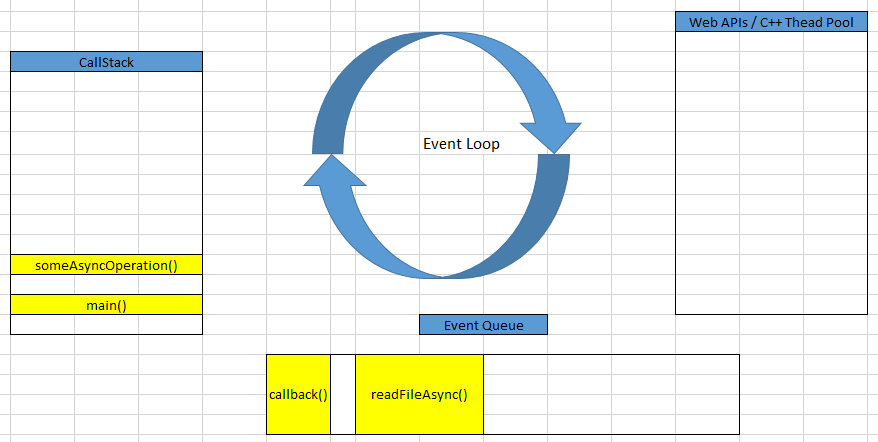
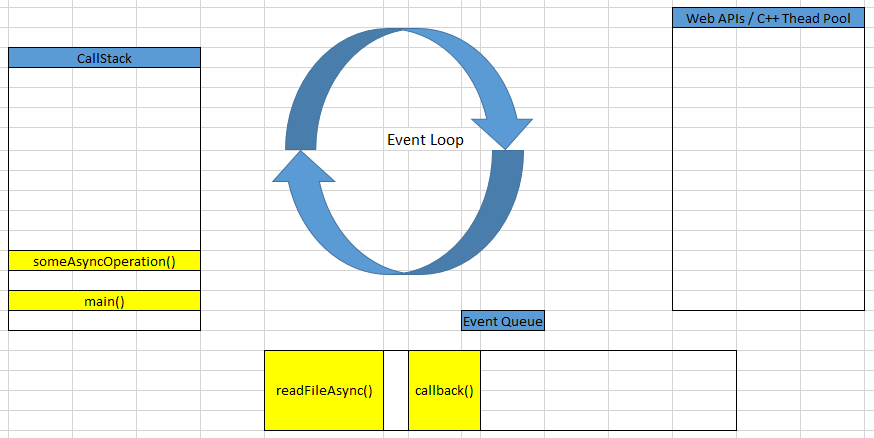
update files

Changed region(s): [[0.0, 0.0, 1.0, 1.0]]

diff --git a/_posts/2020-01-12-Understanding-about-event-loop-in-Node.js.md b/_posts/2020-01-12-Understanding-about-event-loop-in-Node.js.md
@@ -5,8 +5,9 @@ bigimg: /img/image-header/yourself.jpeg
 tags: [Node.js, Reactive Programming, Javascript]
 ---
 
+In this article, we will learn about Event Loop in Node.js, how it works and some components that are relevant to it. Based on the knowledge of Event Loop in Node.js, we will also understand the architecture of Vert.x toolkit.
 
-
+Let's get started.
 
 <br>
 
@@ -14,6 +15,8 @@ tags: [Node.js, Reactive Programming, Javascript]
 - [Given problem](#given-problem)
 - [Solution of Event Loop](#solution-of-event-loop)
 - [How Event Loop works in Node.js](#how-event-loop-works-in-node.js)
+- [Some other concepts in Event Loop](#some-other-concepts-in-event-loop)
+- [When to use](#when-to-use)
 - [Benefits and Drawbacks](#benefits-and-drawbacks)
 - [Applications and Examples](#applications-and-examples)
 - [Wrapping up](#wrapping-up)
@@ -23,11 +26,8 @@ tags: [Node.js, Reactive Programming, Javascript]
 
 ## Given problem
 
+Normally, in our web server, with each request we will create one threads to handle its action, especially in Spring MVC, ... But this way has some drawbacks that we need to know:
 
-
-
-
-The drawbacks of synchronous programming:
 - Creating multiple threads to handle requests at the same time makes our computer have multi-cores, RAMs, but verticle scaling has limit point. And the context-switching between requests consumes time and cost.
 
     Each threads can consumes 2 - 3 MB RAM.
@@ -58,7 +58,7 @@ const fs = require('fs');
 
 function someAsyncOperation(callback) {
   const startCallback = Date.now();
-  // assuming that reading file takes 98ms
+  // assuming that reading file takes 95ms
   fs.readFile('/path/to/file', callback);
 }
 
@@ -80,14 +80,13 @@ function main() {
 }
 
 main();
-
 ```
 
 Belows are some steps that is implemented in Node.js.
 
 1. **main()** function will be called. It will be loaded in **CallStack**.
 
-    After the **now()** method of Date class is called, main() method will be called.
+    After the **now()** method of Date class is called, **main()** method will be called.
 
     ![](../img/asynchronous-programming/event-loop/main-method-call-stack.png)
 
@@ -107,11 +106,55 @@ Belows are some steps that is implemented in Node.js.
 
     ![](../img/asynchronous-programming/event-loop/read-file-async.png)
     
-    But how does Node.js handle the reading file to finish? And how data from the asynchronous function **fs.readFile()** will be passed into callback function?
+    But we have some questions in this case.
+    - How does Node.js handle the reading file to finish?
+
+        We attach listeners to events, so whenever an event is fired the callback attached to the event is executed.
+    
+    - How data from the asynchronous function **fs.readFile()** will be passed into callback function?
     
     After that, **someAsyncOperation()** method will be pop off the CallStack.
 
-    If the call stack is empty, so if all previously invoked functions have returned their values and have been popped off the stack, the first item in the queue gets added to the call stack.
+    Due to the time of finishing the reading file takes 95 ms, and the timeout takes 100ms, so the **readFileAsync()** method will be pushed into Event Queue before the callback of **setTimeout()** method.
+    
+
+4. After **someAsyncOperation()** method, and **main()** method are got out of Call Stack, the Call Stack is empty.
+
+    ![](../img/asynchronous-programming/event-loop/empty-call-stack.png)
+
+    The Event Loop is a constantly running thread that checks if the call stack is empty then, proceeds to execute all the callbacks enqueued in the Event queue.
+
+    ```java
+    while (eventLoop.waitForTask()) {
+        eventLoop.processNextTask()
+    }
+    ```
+
+    Based on it, we can find that **readFileAsync()** callback method will be push into Call Stack. This callback will wait for 10 ms before finishing.
+    
+    ![](../img/asynchronous-programming/event-loop/push-read-file-async-into-call-stack.png)
+    
+    Then, the callback of **setTimeout()** method will be pushed into Call Stack to continuously proceed.
+
+    ![](../img/asynchronous-programming/event-loop/callback-settimeout-in-call-stack.png)
+
+    Finally, the callback of **setTimeout()** method will be poped out of call stack.
+
+<br>
+
+## Some other concepts in Event Loop
+
+- Job Queue
+
+    Job Queue was introduced in ES6. It's a layer on top of the Event Loop queue.
+
+- Microtask and Macrotask
+
+    We can refer an article about [Microtask and Macrotask: A Hands-on Approach](https://blog.bitsrc.io/microtask-and-macrotask-a-hands-on-approach-5d77050e2168).
+
+- Some phases of Event Loop
+
+    We can refer an article about [Phases of the Node JS Event Loop](https://medium.com/@kunaltandon.kt/process-nexttick-vs-setimmediate-vs-settimeout-explained-wrt-different-event-loop-phases-c0506b12921d).
 
 <br>
 
@@ -143,22 +186,16 @@ Belows are some steps that is implemented in Node.js.
 
 ## Applications and Examples
 
-
-
-
-<br>
-
-## Some questions related to Event Loop
-
-
+- Using event loop is applied in Vert.x, Spring Webflux.
 
 
 <br>
 
 ## Wrapping up
 
+- The Event Loop has one simple job — to monitor the Call Stack and the Callback Queue. If the Call Stack is empty, it will take the first event from the queue and will push it to the Call Stack, which effectively runs it.
 
-
+- If the call stack is empty, so if all previously invoked functions have returned their values and have been popped off the stack, the first item in the queue gets added to the call stack.
 
 <br>
 

diff --git a/_post_preparation/2018-10-04-How-to-use-Promise-in-JS.md b/_post_preparation/2018-10-04-How-to-use-Promise-in-JS.md
@@ -1,0 +1,72 @@
+---
+layout: post
+title: How to use Promise in Javascript
+bigimg: /img/path.jpg
+tags: [Javascript]
+---
+
+
+## Table of Contents
+- [Given problem](#given-problem)
+- []()
+- []()
+- []()
+- [Wrapping up](#wrapping-up)
+
+
+<br>
+
+## Given problem
+
+
+
+
+
+
+<br>
+
+## 
+
+
+
+
+
+
+<br>
+
+## 
+
+
+
+
+
+
+<br>
+
+## 
+
+
+
+
+
+
+<br>
+
+## 
+
+
+
+
+
+
+<br>
+
+## Wrapping up
+
+
+
+
+
+Refer:
+
+[How JavaScript works: Event loop and the rise of Async programming + 5 ways to better coding with async/await](https://blog.sessionstack.com/how-javascript-works-event-loop-and-the-rise-of-async-programming-5-ways-to-better-coding-with-2f077c4438b5)
